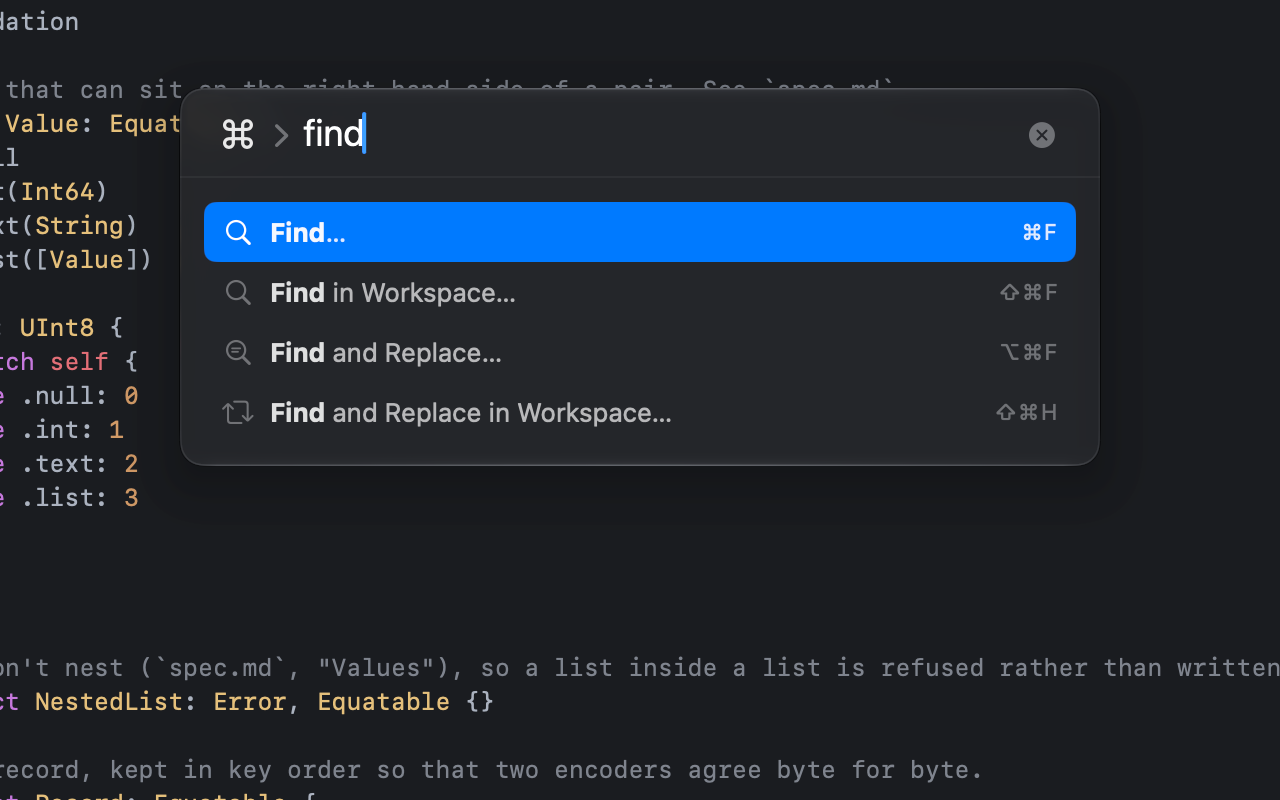
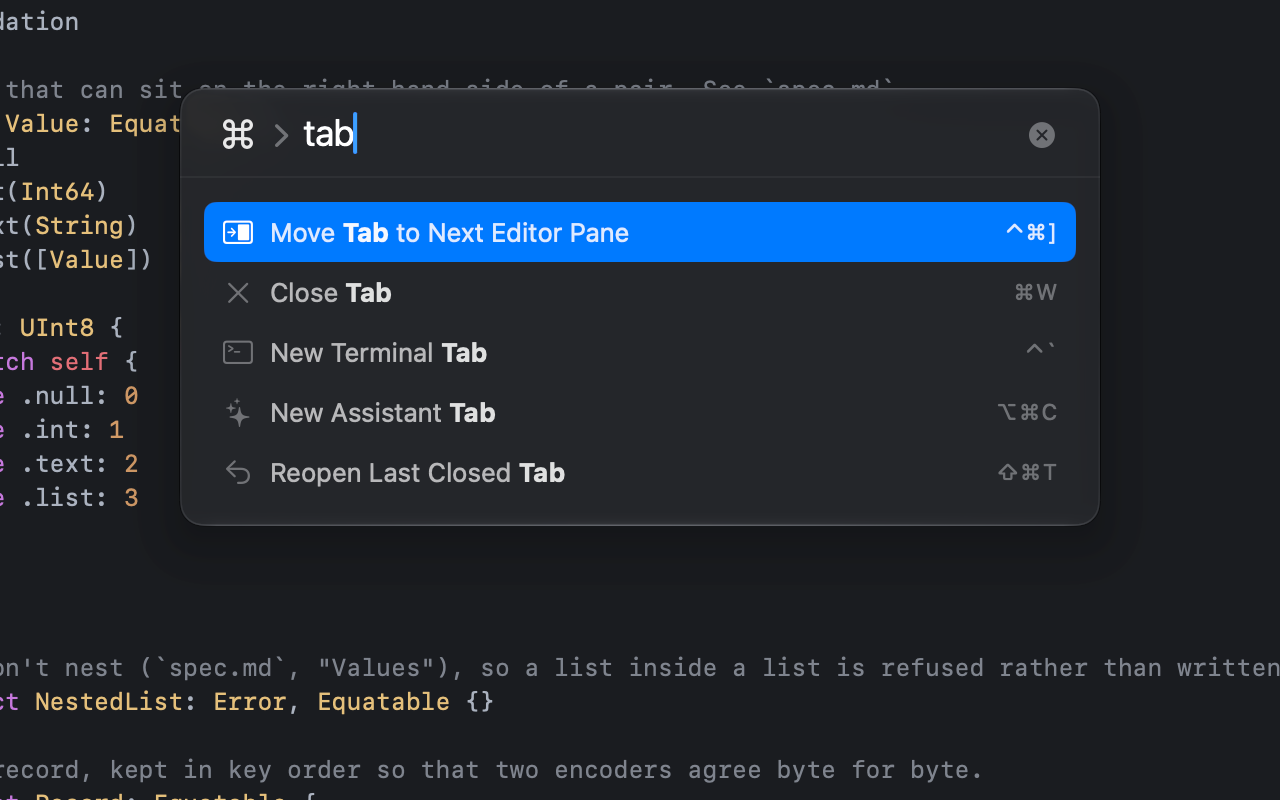
site update (0.18)

diff --git a/index.html b/index.html
@@ -121,7 +121,7 @@
     </figure>
     <figure class="flip">
       <figcaption><strong>Quick Open</strong><span>File matching tolerates typos.</span><p>Search by part of a name or path. Quick Action also finds commands, tasks, and skills.</p><div class="gallery-buttons" role="group" hidden aria-label="Choose screenshot"><button type="button" data-view="0" aria-pressed="true">Files</button><button type="button" data-view="1" aria-pressed="false">Quick Action</button></div></figcaption>
-      <div class="gallery-views"><div><a href="shots/quick-open-light.png?v=b10ee442fe" aria-label="Quick Open — enlarge"><picture><source srcset="shots/quick-open-dark.png?v=0ceb9c4eb9" media="(prefers-color-scheme: dark)"><img src="shots/quick-open-light.png?v=b10ee442fe" width="1280" height="800" alt="Quick Open over the editor: a misspelled path, the five files it meant found anyway, the matched letters picked out." loading="lazy" decoding="async"></picture></a></div><div><a href="shots/quick-action-light.png?v=4ad0d48ecf" aria-label="Quick Action — enlarge"><picture><source srcset="shots/quick-action-dark.png?v=7a355c7132" media="(prefers-color-scheme: dark)"><img src="shots/quick-action-light.png?v=4ad0d48ecf" width="1280" height="800" alt="Quick Action showing matching commands." loading="lazy" decoding="async"></picture></a></div></div>
+      <div class="gallery-views"><div><a href="shots/quick-open-light.png?v=b10ee442fe" aria-label="Quick Open — enlarge"><picture><source srcset="shots/quick-open-dark.png?v=0ceb9c4eb9" media="(prefers-color-scheme: dark)"><img src="shots/quick-open-light.png?v=b10ee442fe" width="1280" height="800" alt="Quick Open over the editor: a misspelled path, the five files it meant found anyway, the matched letters picked out." loading="lazy" decoding="async"></picture></a></div><div><a href="shots/quick-action-light.png?v=00fa1d13ca" aria-label="Quick Action — enlarge"><picture><source srcset="shots/quick-action-dark.png?v=32ad8c1522" media="(prefers-color-scheme: dark)"><img src="shots/quick-action-light.png?v=00fa1d13ca" width="1280" height="800" alt="Quick Action showing matching commands." loading="lazy" decoding="async"></picture></a></div></div>
     </figure>
   </section>
 
